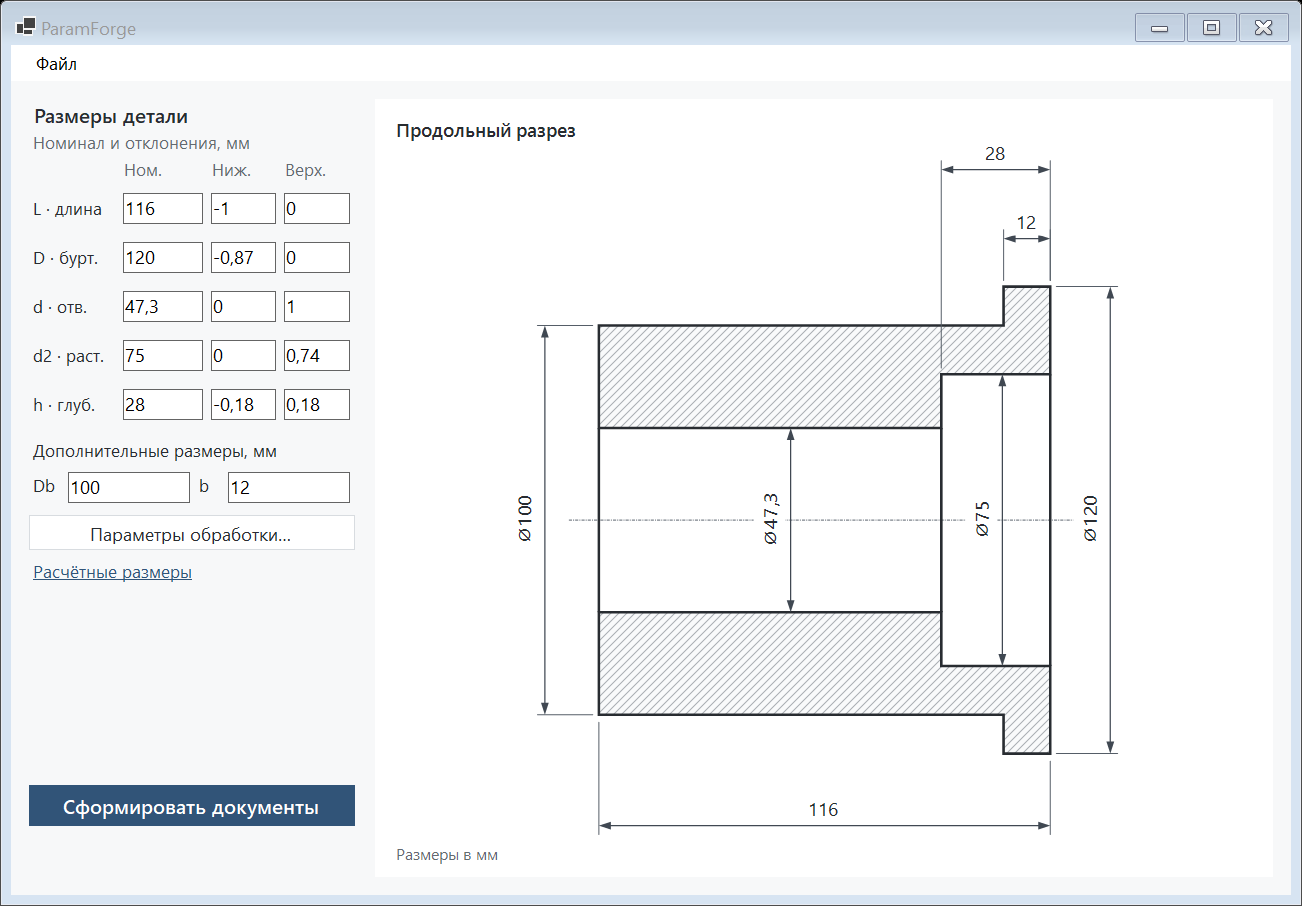
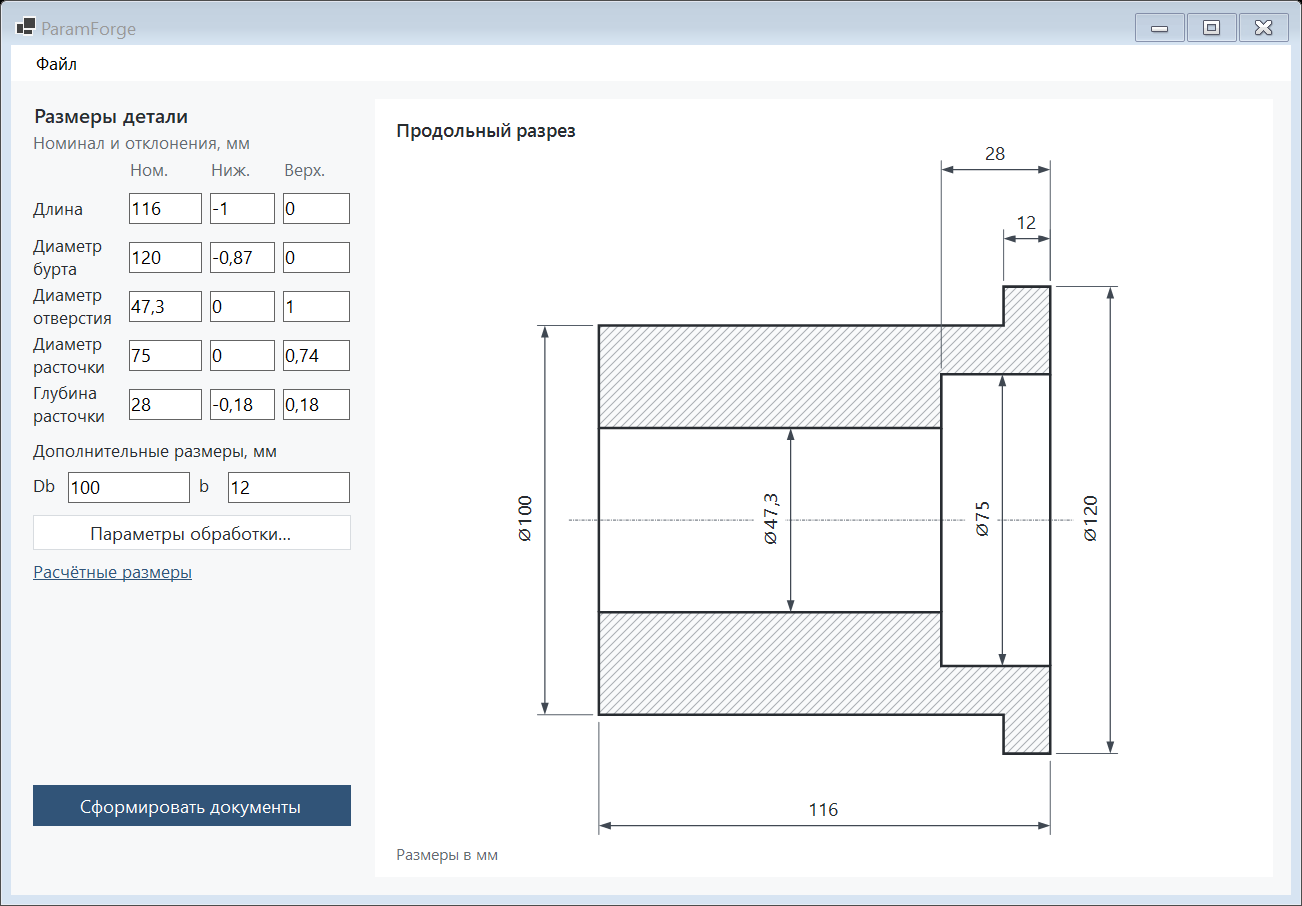
Упростить подписи размеров и выровнять кнопки диалогов
Заменить декоративные разделители и сокращения полными названиями. Привести кнопки к одинаковому шрифту, высоте, выравниванию и отступам; исправить границы и промежутки между кнопками.

Проверено в обычном и минимальном окне при DPI144: сборка без ошибок и предупреждений, 101 проверка собственного интерфейса. Технология, ядро и три исходных выходных файла не изменены.

diff --git a/src/Kontur.Desktop/UiSmoke.cs b/src/Kontur.Desktop/UiSmoke.cs
@@ -26,6 +26,7 @@ internal static class UiSmoke
             Check("seventeen_main_numeric_inputs", form.MainNumericInputCount == 17, form.MainNumericInputCount);
             Check("default_generation", form.CurrentProject?.Verification.Ok == true && !form.IsStale);
             form.CaptureForm(Path.Combine(folder, "01-default-1280x850.png"));
+            CheckCaptions(form, "default", Check);
             Check("default_labels_and_closed_walls", form.DrawingLabelsInside && !form.DrawingLabelsOverlap && form.RearWallsClosed && form.DrawingLabelsClearOfMaterial && form.DrawingBoreDimensionsClearOfMaterial && form.DrawingLabelsClearOfRearEdges);
 
             form.SetInput("length", "132");
@@ -95,6 +96,7 @@ internal static class UiSmoke
             form.GenerateNow();
             form.Size = new Size(1100, 720);
             form.CaptureForm(Path.Combine(folder, "05-minimum-1100x720.png"));
+            CheckCaptions(form, "minimum", Check);
             Check("minimum_drawing", form.DrawingLabelsInside && !form.DrawingLabelsOverlap && form.RearWallsClosed && form.DrawingLabelsClearOfMaterial && form.DrawingBoreDimensionsClearOfMaterial && form.DrawingLabelsClearOfRearEdges, new { form.Width, form.Height });
             form.ClientSize = new Size(1280, 850);
 
@@ -138,6 +140,7 @@ internal static class UiSmoke
             EditByCanvasClick(form, "boreDiameter", editor =>
             {
                 editor.NominalInput.Text = "48"; editor.LowerInput!.Text = "-0,1"; editor.UpperInput!.Text = "0,5";
+                CheckButtonPair("dimension_editor", editor.ApplyButton, editor.CancelEditorButton, Check);
                 CaptureDialog(editor, Path.Combine(folder, "11-dimension-editor.png"));
                 PressDialogKey(editor, Keys.Enter);
             });
@@ -222,6 +225,8 @@ internal static class UiSmoke
             var originalPartName = form.CurrentProject!.Params.PartName;
             var processingTitle = CancelOwnModal(form, () => InvokeAction(form, "OpenProcessing"), dialog =>
             {
+                var pair = Descendants(dialog).OfType<Button>().ToArray();
+                CheckButtonPair("processing", pair.Single(button => button.Text == "Применить"), pair.Single(button => button.Text == "Отмена"), Check);
                 var partName = Descendants(dialog).OfType<TextBox>().First(box => box.Text == originalPartName);
                 partName.Text = "Discarded QA edit";
             });
@@ -287,6 +292,39 @@ internal static class UiSmoke
         Environment.ExitCode = failures.Count == 0 ? 0 : 1;
     }
 
+
+    private static void CheckCaptions(MainForm form, string name, Action<string, bool, object?> check)
+    {
+        var labels = Descendants(form).OfType<Label>().Where(label => label.Name.StartsWith("dimension_caption_", StringComparison.Ordinal)).ToArray();
+        var expected = new Dictionary<string, string>
+        {
+            ["length"] = "Длина", ["flangeDiameter"] = "Диаметр бурта", ["boreDiameter"] = "Диаметр отверстия",
+            ["counterboreDiameter"] = "Диаметр расточки", ["counterboreDepth"] = "Глубина расточки"
+        };
+        var evidence = labels.Select(label => new
+        {
+            key = label.Name["dimension_caption_".Length..], text = label.Text.Replace('\n', ' '),
+            availableWidth = label.ClientSize.Width, availableHeight = label.ClientSize.Height,
+            measuredWidth = label.Text.Split('\n').Max(line => TextRenderer.MeasureText(line, label.Font).Width),
+            measuredHeight = TextRenderer.MeasureText(label.Text, label.Font).Height
+        }).ToArray();
+        check(name + "_full_dimension_captions_fit", evidence.Length == 5 && evidence.All(item =>
+            expected.GetValueOrDefault(item.key) == item.text && item.measuredWidth <= item.availableWidth && item.measuredHeight <= item.availableHeight), evidence);
+    }
+    private static void CheckButtonPair(string name, Button first, Button second, Action<string, bool, object?> check)
+    {
+        check(name + "_buttons_align", first.Top == second.Top && first.Size == second.Size && first.Font.Equals(second.Font) &&
+            first.Padding == second.Padding && first.Margin == second.Margin && first.TextAlign == second.TextAlign &&
+            first.FlatStyle == second.FlatStyle && first.FlatAppearance.BorderSize == second.FlatAppearance.BorderSize &&
+            first.UseCompatibleTextRendering == second.UseCompatibleTextRendering,
+            new { first = ButtonEvidence(first), second = ButtonEvidence(second) });
+    }
+    private static object ButtonEvidence(Button button) => new
+    {
+        button.Text, button.Left, button.Top, button.Width, button.Height, font = button.Font.ToString(),
+        padding = button.Padding.ToString(), margin = button.Margin.ToString(), textAlign = button.TextAlign.ToString(),
+        borderWidth = button.FlatAppearance.BorderSize, borderColor = button.FlatAppearance.BorderColor.ToString()
+    };
 
     private static void RenderDrawing(MainForm form)
     {

diff --git a/src/Kontur.Desktop/MainForm.cs b/src/Kontur.Desktop/MainForm.cs
@@ -123,8 +123,8 @@ internal sealed class MainForm : Form
     private Control BuildDimensions()
     {
         var table = new TableLayoutPanel { Dock = DockStyle.Fill, ColumnCount = 4, RowCount = 6, Margin = Padding.Empty };
-        table.ColumnStyles.Add(new ColumnStyle(SizeType.Percent, 28));
-        table.ColumnStyles.Add(new ColumnStyle(SizeType.Percent, 27));
+        table.ColumnStyles.Add(new ColumnStyle(SizeType.Percent, 30));
+        table.ColumnStyles.Add(new ColumnStyle(SizeType.Percent, 25));
         table.ColumnStyles.Add(new ColumnStyle(SizeType.Percent, 22.5F));
         table.ColumnStyles.Add(new ColumnStyle(SizeType.Percent, 22.5F));
         table.RowStyles.Add(new RowStyle(SizeType.Absolute, 29));
@@ -138,16 +138,18 @@ internal sealed class MainForm : Form
         }
         var rows = new[]
         {
-            ("L · длина", "length", "lengthLowerDeviation", "lengthUpperDeviation"),
-            ("D · бурт.", "flangeDiameter", "flangeLowerDeviation", "flangeUpperDeviation"),
-            ("d · отв.", "boreDiameter", "boreLowerDeviation", "boreUpperDeviation"),
-            ("d2 · раст.", "counterboreDiameter", "counterboreLowerDeviation", "counterboreUpperDeviation"),
-            ("h · глуб.", "counterboreDepth", "counterboreDepthLowerDeviation", "counterboreDepthUpperDeviation")
+            ("Длина", "length", "lengthLowerDeviation", "lengthUpperDeviation"),
+            ("Диаметр\nбурта", "flangeDiameter", "flangeLowerDeviation", "flangeUpperDeviation"),
+            ("Диаметр\nотверстия", "boreDiameter", "boreLowerDeviation", "boreUpperDeviation"),
+            ("Диаметр\nрасточки", "counterboreDiameter", "counterboreLowerDeviation", "counterboreUpperDeviation"),
+            ("Глубина\nрасточки", "counterboreDepth", "counterboreDepthLowerDeviation", "counterboreDepthUpperDeviation")
         };
         for (var row = 0; row < rows.Length; row++)
         {
             var (caption, nominal, low, high) = rows[row];
-            table.Controls.Add(Theme.Label(caption, Theme.Small), 0, row + 1);
+            var label = Theme.Label(caption, Theme.Small);
+            label.Name = "dimension_caption_" + nominal;
+            table.Controls.Add(label, 0, row + 1);
             table.Controls.Add(Input(nominal), 1, row + 1);
             table.Controls.Add(Input(low), 2, row + 1);
             table.Controls.Add(Input(high), 3, row + 1);
@@ -471,8 +473,8 @@ internal sealed class MainForm : Form
             BackColor = Color.White;
             errors.ContainerControl = this;
             var footer = new FlowLayoutPanel { Dock = DockStyle.Bottom, Height = 58, FlowDirection = FlowDirection.RightToLeft, Padding = new Padding(12, 5, 12, 5) };
-            var cancel = Theme.Button("Отмена"); cancel.Width = 115; cancel.DialogResult = DialogResult.Cancel;
-            var apply = Theme.Button("Применить", true); apply.Width = 150; apply.Height = 38;
+            var cancel = Theme.Button("Отмена"); cancel.Width = 140; cancel.DialogResult = DialogResult.Cancel;
+            var apply = Theme.Button("Применить", true); apply.Width = 140;
             apply.Click += (_, _) => Apply();
             footer.Controls.AddRange([cancel, apply]);
             Controls.Add(footer);

diff --git a/src/Kontur.Desktop/Theme.cs b/src/Kontur.Desktop/Theme.cs
@@ -14,11 +14,12 @@ internal static class Theme
 
     internal static Button Button(string text, bool primary = false) => new()
     {
-        Text = text, Font = primary ? Strong : Body, AutoEllipsis = true,
-        FlatStyle = FlatStyle.Flat, BackColor = primary ? Accent : Color.White,
+        Text = text, Font = Body, AutoEllipsis = true,
+        FlatStyle = FlatStyle.Flat, FlatAppearance = { BorderColor = primary ? Accent : Border, BorderSize = 1 },
+        BackColor = primary ? Accent : Color.White,
         ForeColor = primary ? Color.White : Ink, UseVisualStyleBackColor = false,
-        Height = primary ? 48 : 36, Padding = new Padding(7, 1, 7, 1),
-        Cursor = Cursors.Hand, Margin = new Padding(0, 4, 0, 4)
+        Height = 36, Padding = new Padding(7, 0, 7, 0), TextAlign = ContentAlignment.MiddleCenter,
+        Cursor = Cursors.Hand, Margin = new Padding(4, 4, 4, 4)
     };
 
     internal static Label Label(string text, Font? font = null) => new()
